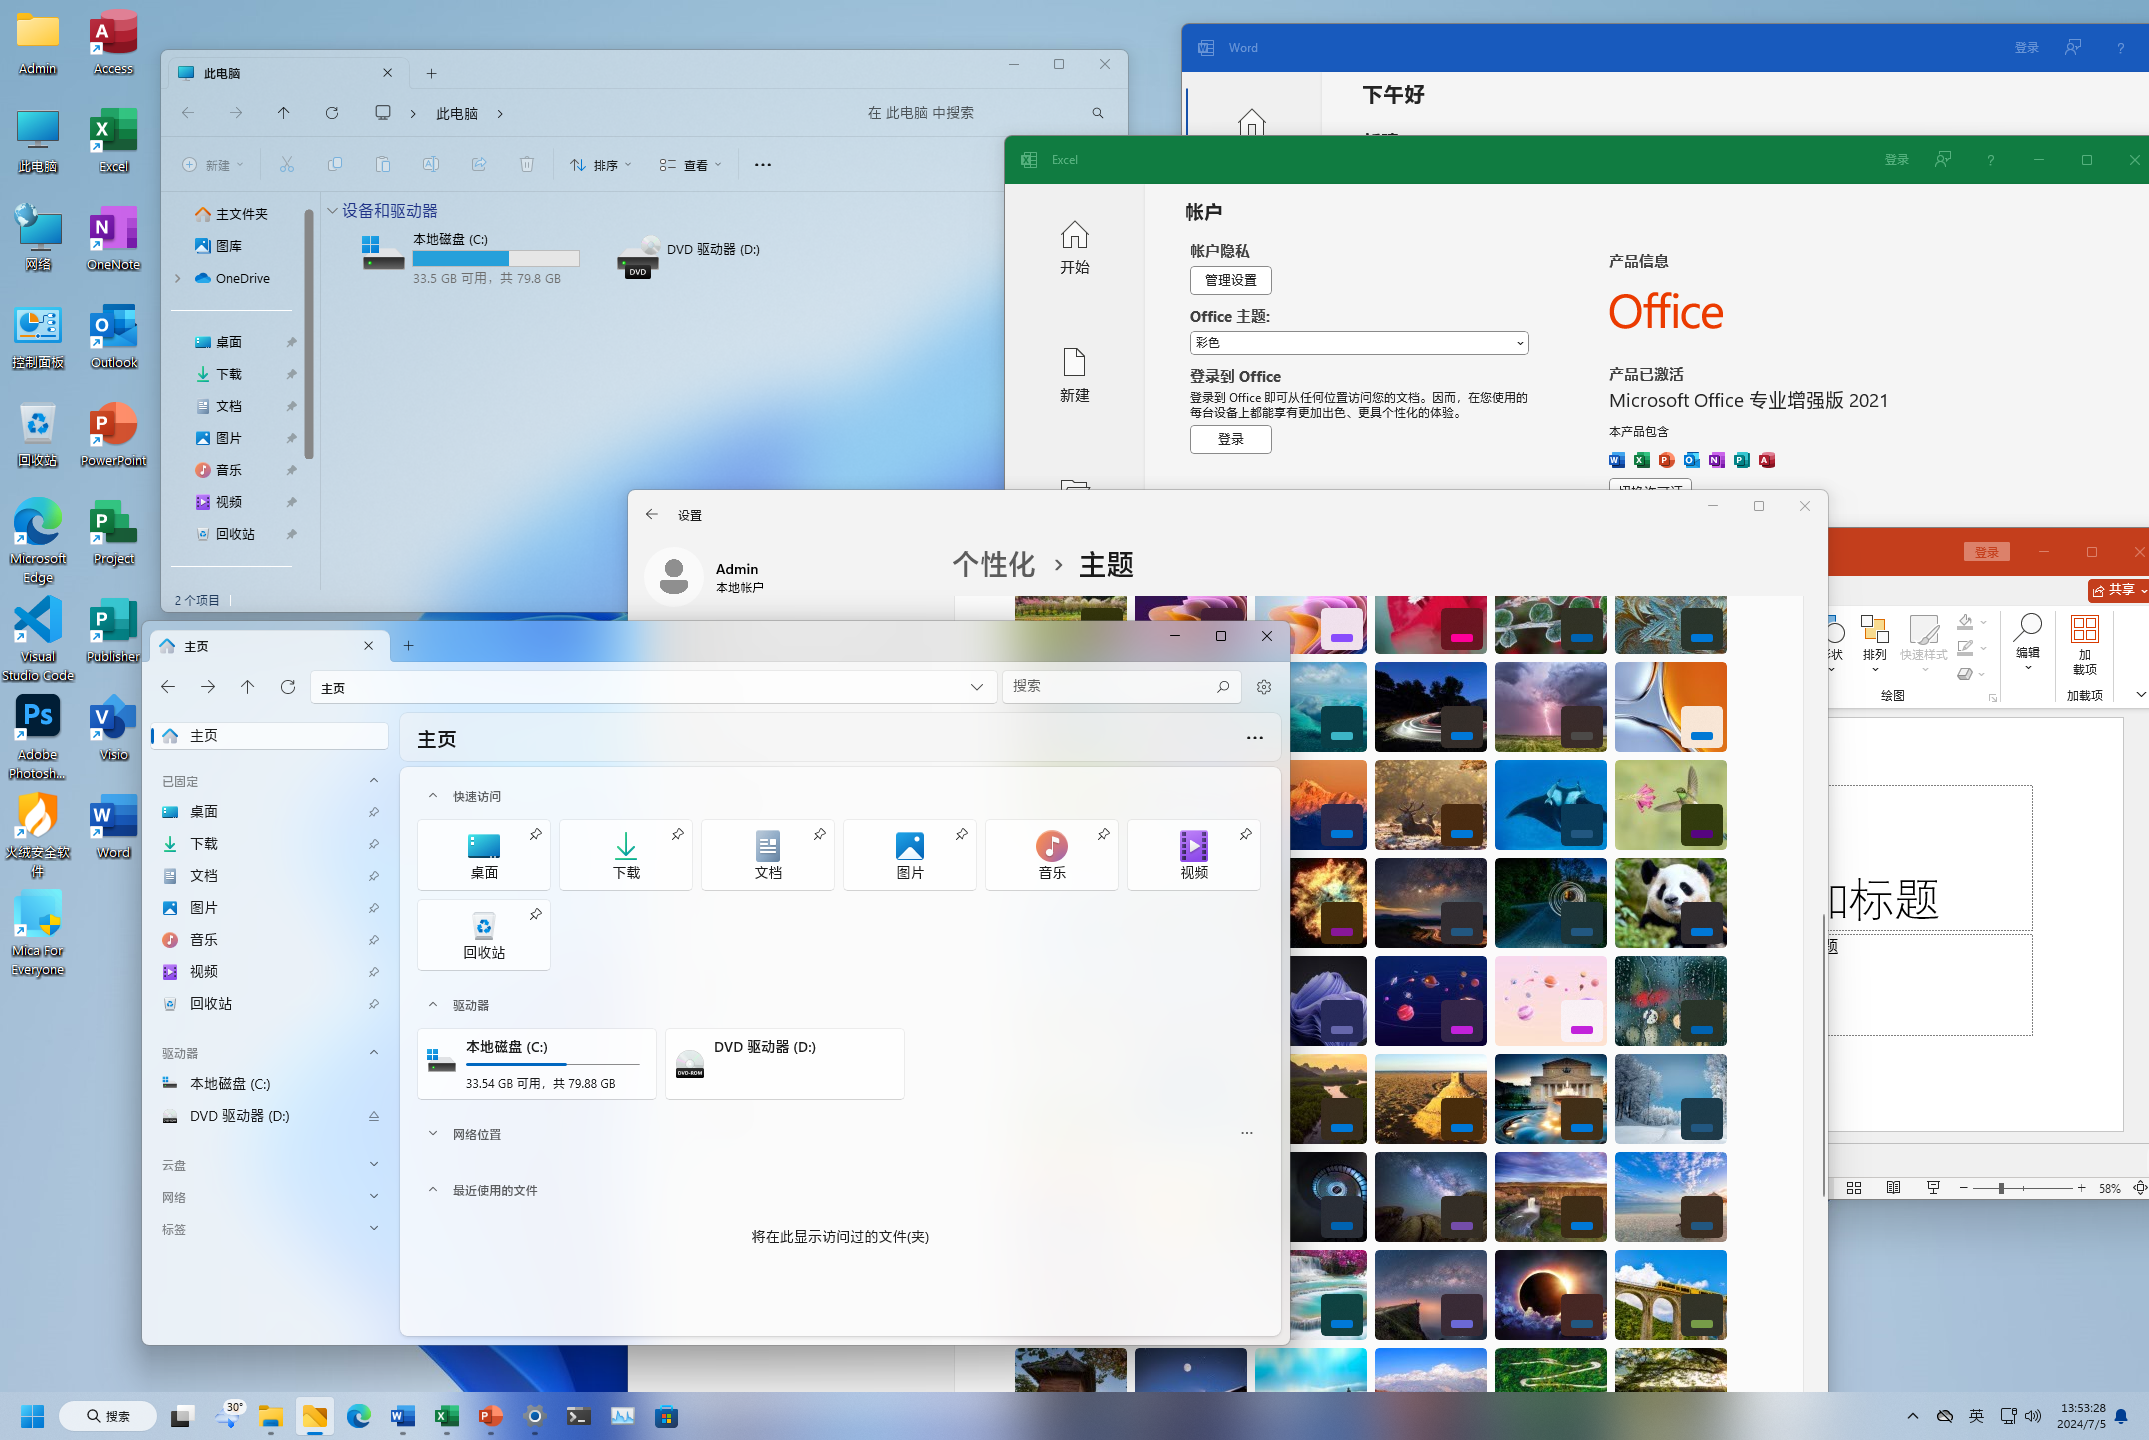
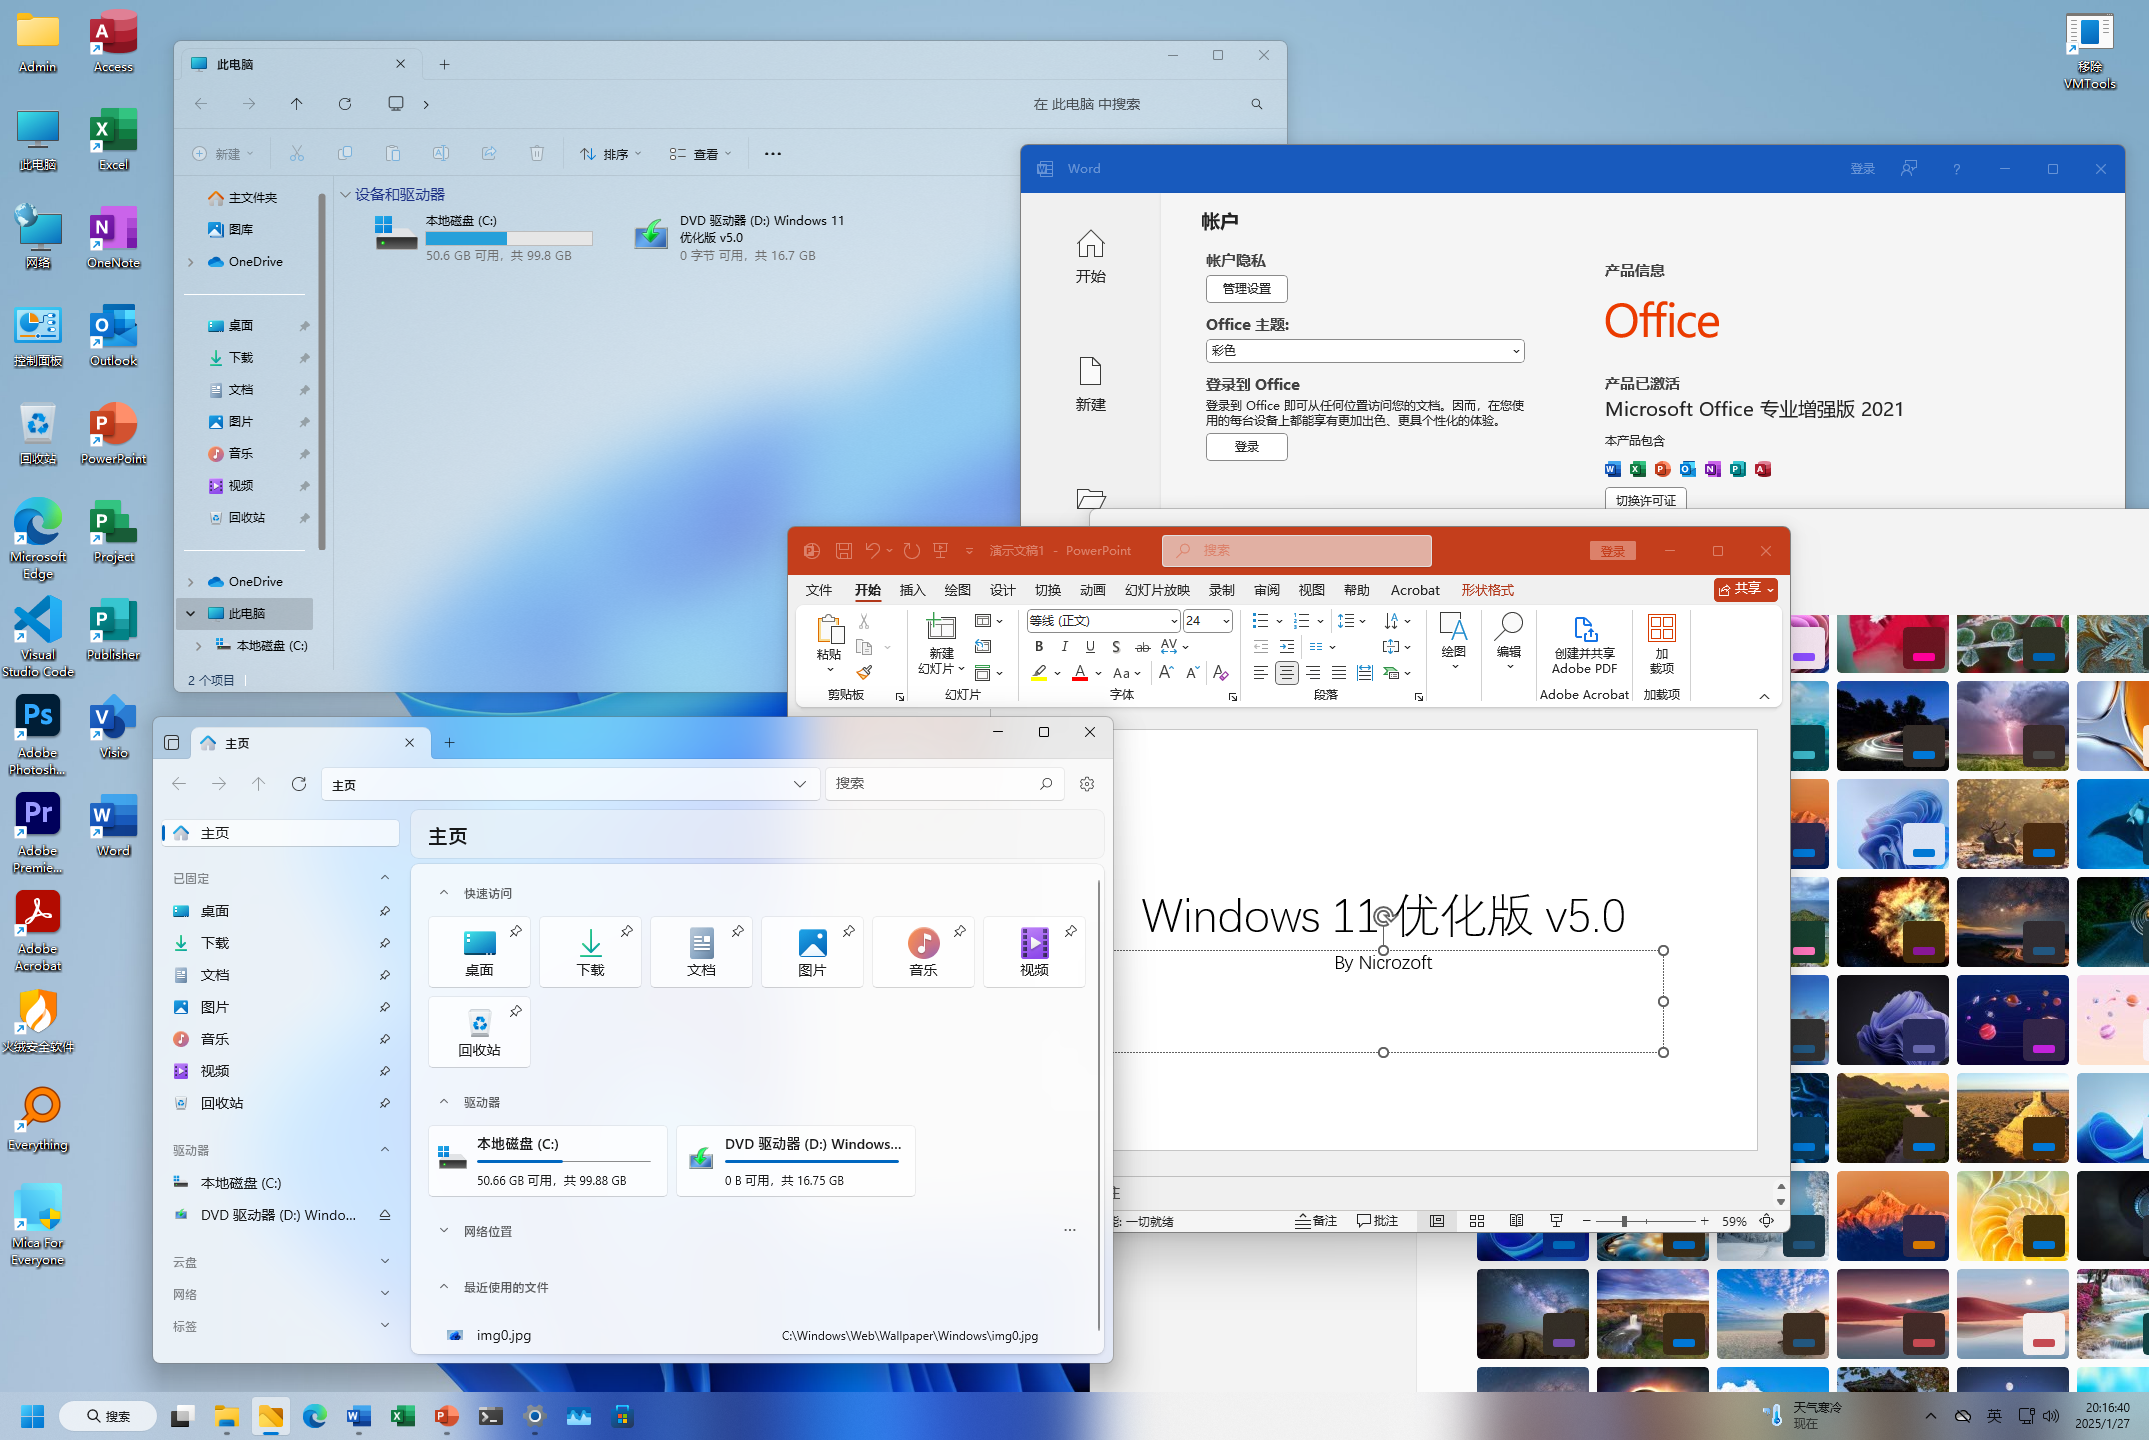
Update Files

diff --git a/win11ext.html b/win11ext.html
@@ -72,8 +72,31 @@
             <div class="col-xl-4 col-lg-5 col-md-6 col-sm-12">
                 <div class="tm-bg-gray tm-video-details">
                     <p class="mb-4">
-                        Windows 11 优化版 64位。<br>系统基于 Windows 11 23H2 专业工作站版。<br>此系统并不基于任何其他修改版。除安装程序外, 也没有参考其他任何修改版。只有安装程序使用了 Rectify 11 的部分文件。<br>此系统使用 Dism 封装，并使用 Wimlib-ImageX (1.0 使用 Dism++) 将镜像转为 ESD 格式并添加卷信息。我们坚决抵制任何流氓软件！抵制流氓封装工具 Easy Sysprep！<br>系统更改：<br>1.添加了 77 个主题。<br>2.永久激活了系统。<br>3.调整了桌面图标。<br>4.默认显示文件扩展名。<br>5.安装了 Microsoft Office Professional Plus 2021 并使用 Ohook 模式永久激活（非 KMS）。<br>6.安装了 Visual Studio Code, PowerToys, Files App, Dev Home。<br>7.为 VSCode 安装了 Python, C++, Code Runner 插件。<br>8.安装了 Mica for Everyone。<br>9.安装了火绒安全软件。<br>10.安装程序样式大幅调整。<br>11.为 Edge 安装了 Adguard 插件。<br>12.【2.0 内容】新增 8 个主题, 其中包含 “Nebulas in 4K” 主题。<br>13.【2.0 内容】修复了 Mica for Everyone 无法启动的问题。<br>14.【2.0 内容】更新了 Files App。<br>15.【2.0 内容】将 Files App 设为默认资源管理器。<br>16.【2.0 内容】安装了 Adobe Photoshop 2023。<br>17.【2.0 内容】为 Edge 设置了圆角标签页。<br>18.【2.0 内容】一些系统和应用设置微调。<br>19.【3.0 内容】安装了新版微软雅黑 (11.3.0)。<br>20.【3.0 内容】安装了 translucentTB 并将任务栏设为 Acrylic 半透明。<br>21.【3.0 内容】安装了 ExplorerBlurMica，将资源管理器设为全窗口 Acrylic。<br>22.【3.0 内容】更新了系统、VSCode、PowerToys 和大量 Microsoft Store 应用。<br>23.【3.0 内容】安装了画图 3D。<br>24.【3.0 内容】添加了华为 MateBook 16s 的 OEM 主题。<br>25.【3.0 内容】为 Microsoft Edge 开启了 Mica 效果，并设置了垂直标签页。<br>26.【4.0 内容】更新了系统和软件。<br>27.【4.0 内容】安装了 Visio 和 Project 并永久激活。<br>28.【4.0 内容】调整了资源管理器透明度以保证文字清晰可见。<br>29.【4.0 内容】安装了 Adobe Photoshop 2024（25.9）。（之前的版本为 2023）<br>30.【4.0 内容】优化了字体设置，使字体观感更加舒适，同时修复了字号重复的问题。<br>31.【4.0 内容】安装了火绒安全软件 6.0。<br><br>由于 1.0 版本存在 Acrylic 失效的问题，因此强烈建议你使用最新版本。<br>该镜像并没有设置跳过 Windows 11 硬件检查的内容。因此你的计算机(或虚拟机)必须满足 Windows 11 硬件要求。<br>如果你确实要在不满足 Windows 11 硬件要求的计算机上安装该系统，你需要按 Shift+F10, 然后输入 SkipCheck (这是 Nicrozoft 在 boot.wim\Windows\System32 下放置的一个 bat 脚本，用于跳过硬件检查), 就可以继续安装了。<br><br><font color="#FF0000">© Nicrozoft Corporation, 保留所有权利。<br>未经 Nicrozoft 允许, 禁止转载或修改, 否则 Nicrozoft 必将追究！</font>
+                        Windows 11 优化版 64位。<br>系统基于 Windows 11 24H2 专业工作站版。<br>此系统并不基于任何其他修改版。除安装程序外, 也没有参考其他任何修改版。只有安装程序使用了 Rectify 11 的部分文件。<br>此系统使用 Dism 封装，并使用 Wimlib-ImageX (1.0 使用 Dism++) 将镜像转为 ESD 格式并添加卷信息。我们坚决抵制任何流氓软件！抵制流氓封装工具 Easy Sysprep！<br>系统更改：<br>1.添加了 77 个主题。<br>2.永久激活了系统。<br>3.调整了桌面图标。<br>4.默认显示文件扩展名。<br>5.安装了 Microsoft Office Professional Plus 2021 并使用 Ohook 模式永久激活（非 KMS）。<br>6.安装了 Visual Studio Code, PowerToys, Files App, Dev Home。<br>7.为 VSCode 安装了 Python, C++, Code Runner 插件。<br>8.安装了 Mica for Everyone。<br>9.安装了火绒安全软件。<br>10.安装程序样式大幅调整。<br>11.为 Edge 安装了 Adguard 插件。<br>12.【2.0 内容】新增 8 个主题, 其中包含 “Nebulas in 4K” 主题。<br>13.【2.0 内容】修复了 Mica for Everyone 无法启动的问题。<br>14.【2.0 内容】更新了 Files App。<br>15.【2.0 内容】将 Files App 设为默认资源管理器。<br>16.【2.0 内容】安装了 Adobe Photoshop 2023。<br>17.【2.0 内容】为 Edge 设置了圆角标签页。<br>18.【2.0 内容】一些系统和应用设置微调。<br>19.【3.0 内容】安装了新版微软雅黑 (11.3.0)。<br>20.【3.0 内容】安装了 translucentTB 并将任务栏设为 Acrylic 半透明。<br>21.【3.0 内容】安装了 ExplorerBlurMica，将资源管理器设为全窗口 Acrylic。<br>22.【3.0 内容】更新了系统、VSCode、PowerToys 和大量 Microsoft Store 应用。<br>23.【3.0 内容】安装了画图 3D。<br>24.【3.0 内容】添加了华为 MateBook 16s 的 OEM 主题。<br>25.【3.0 内容】为 Microsoft Edge 开启了 Mica 效果，并设置了垂直标签页。<br>26.【4.0 内容】更新了系统和软件。<br>27.【4.0 内容】安装了 Visio 和 Project 并永久激活。<br>28.【4.0 内容】调整了资源管理器透明度以保证文字清晰可见。<br>29.【4.0 内容】安装了 Adobe Photoshop 2024（25.9）。（之前的版本为 2023）<br>30.【4.0 内容】优化了字体设置，使字体观感更加舒适，同时修复了字号重复的问题。<br>31.【4.0 内容】安装了火绒安全软件 6.0。32.【5.0 内容】更新系统版本至 24H2 的 2025 01 累积更新。<br>33.【5.0 内容】更新系统的各个软件至最新版本。<br>34.【5.0 内容】将微软雅黑的 Regular，Light，Bold 三个字号恢复至原版。<br>35.【5.0 内容】安装 Adobe Acrobat 2024 和 Adobe Premiere 2024。<br>36.【5.0 内容】添加 Windows Server 2025 和 Microsoft Community 的主题。<br>37.【5.0 内容】内置一个工具，用于在物理机安装后移除 VMware Tools 并清理导致计算机被误判为虚拟机的注册表，放置在桌面右上角，该程序开源至 Github。<br>38.【5.0 内容】内置了常用文件搜索软件 Everything。<br><br>由于 1.0 版本存在 Acrylic 失效的问题，因此强烈建议你使用最新版本。<br>该镜像并没有设置跳过 Windows 11 硬件检查的内容。因此你的计算机(或虚拟机)必须满足 Windows 11 硬件要求。<br>如果你确实要在不满足 Windows 11 硬件要求的计算机上安装该系统，你需要按 Shift+F10, 然后输入 SkipCheck (这是 Nicrozoft 在 boot.wim\Windows\System32 下放置的一个 bat 脚本，用于跳过硬件检查), 就可以继续安装了。<br><br><font color="#FF0000">© Nicrozoft Corporation, 保留所有权利。<br>未经 Nicrozoft 允许, 禁止转载或修改, 否则 Nicrozoft 必将追究！</font>
                     </p>
+                    <h5 class="text-center mb-4"><font color="#0078D4">
+                        以下为 5.0 版本的【镜像】文件，文件格式为[.iso]
+                    </font></h5>
+                    <div class="text-center mb-5">
+                        <a href="checksums/win11ext_5.0_iso.txt" class="btn btn-primary tm-btn-big">查看文件校验和</a>
+                    </div>
+                    <div class="text-center mb-5">
+                        <a href="https://pan.huang1111.cn/s/GmNgFW?path=%2Fwin11ext%2Fv5.0%2FISO" class="btn btn-primary tm-btn-big">huang1111 网盘链接</a>
+                    </div>
+                    <div class="text-center mb-5">
+                        <a href="https://111pan.cn/s/VQoH6?path=%2Fwin11ext%2Fv5.0%2FISO" class="btn btn-primary tm-btn-big">111 网盘链接</a>
+                    </div>
+                    <br><br>
+                    <div class="text-center mb-5">
+                        <a href="img/windows11ext.png" class="btn btn-primary tm-btn-big">下载 5.0 系统截图</a>
+                    </div>
+                    <div class="text-center mb-5">
+                        <a href="https://www.bilibili.com/video/BV1difDY4EBa/" class="btn btn-primary tm-btn-big">观看该系统的 5.0 版本的介绍及演示视频<br>（记得点赞投币收藏关注）</a>
+                    </div>
+                    <br><br>
+                    <h5 class="text-center mb-4"><font color="#0078D4">
+                        以下为早期版本的内容
+                    </font></h5>
                     <h5 class="text-center mb-4"><font color="#0078D4">
                         以下为 4.0 版本的【镜像】文件，文件格式为[.iso]
                     </font></h5>
@@ -86,17 +109,13 @@
                     <div class="text-center mb-5">
                         <a href="https://www.123pan.com/s/kb7cjv-q6Lc3.html" class="btn btn-primary tm-btn-big">123 网盘链接</a>
                     </div>
-                    <br><br>
                     <div class="text-center mb-5">
-                        <a href="img/windows11ext.png" class="btn btn-primary tm-btn-big">下载 4.0 系统截图</a>
+                        <a href="https://111pan.cn/s/VQoH6?path=%2Fwin11ext%2Fv4.0%2FISO" class="btn btn-primary tm-btn-big">111 网盘链接</a>
                     </div>
+                    <br><br>
                     <div class="text-center mb-5">
                         <a href="https://www.bilibili.com/video/BV1Ew4m1k7Rw" class="btn btn-primary tm-btn-big">观看该系统的 4.0 版本的介绍及演示视频<br>（记得点赞投币收藏关注）</a>
                     </div>
-                    <br><br>
-                    <h5 class="text-center mb-4"><font color="#0078D4">
-                        以下为早期版本的内容 （即将弃用）
-                    </font></h5>
                     <div class="text-center mb-5">
                         <a href="https://pan.huang1111.cn/s/GmNgFW?path=%2Fwin11ext%2Fv3.0" class="btn btn-primary tm-btn-big">下载 3.0 镜像 (ISO)</a>
                     </div>

diff --git a/win7tolh.html b/win7tolh.html
@@ -142,7 +142,7 @@
                     </div>
                     <br><br>
                     <h5 class="text-center mb-4"><font color="#0078D4">
-                        以下为早期版本的内容 （即将弃用）
+                        以下为早期版本的内容
                     </font></h5>
                     <div class="text-center mb-5">
                         <a href="https://pan.huang1111.cn/s/GmNgFW?path=%2Fwin7tolh%2FSys_1%2FVM" class="btn btn-primary tm-btn-big">下载 #1 v2.0 虚拟机 (7Z)</a>

diff --git a/winvistatolh.html b/winvistatolh.html
@@ -102,7 +102,7 @@
                     </div>
                     <br><br>
                     <h5 class="text-center mb-4"><font color="#0078D4">
-                        以下为早期版本的内容 （即将弃用）
+                        以下为早期版本的内容
                     </font></h5>
                     <div class="text-center mb-5">
                         <a href="https://pan.huang1111.cn/s/GmNgFW?path=%2Fwinvistatolh%2Fv4.0%2FVM" class="btn btn-primary tm-btn-big">下载 4.0 虚拟机 (7Z)</a>
